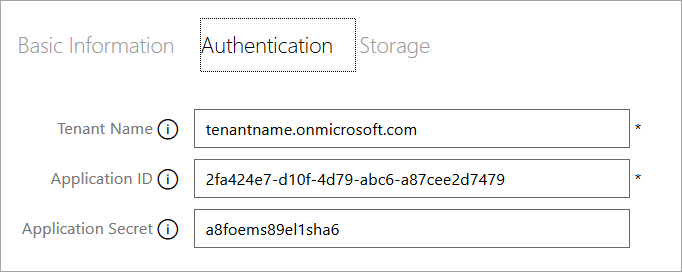
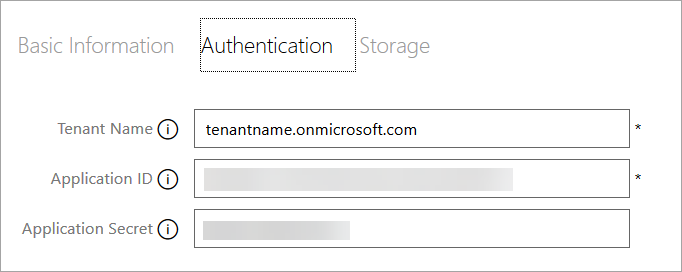
Updated screenshot
-added blur on GUID

Changed region(s): [[0.2771, 0.6176, 0.739, 0.7059], [0.2771, 0.7941, 0.5235, 0.8824]]

diff --git a/cloud-slice/cloud-slice.md b/cloud-slice/cloud-slice.md
@@ -11,12 +11,12 @@ Unmanaged cloud resources are cloud resources that are created during the deploy
 The Cloud Slice feature allows you to create labs in the cloud that are pre-configured with compute, networking, and storage cloud resources, and/or that allow students to create their own compute, networking, and storage cloud resources as part of the steps they must complete within that lab. Before adding Cloud Slice support in your labs, there are several tasks you must perform. These tasks are listed below and any optional ones are appropriately marked with "(Optional)". As you work through these tasks, you can use the list below to navigate to the one you are currently working on and then return to the list to continue with another task.
 
 1. [Enable Cloud Slice support on the cloud platform of your choice](#enable-cloud-slice-support-in-your-cloud-platform).
-1. [Configure resource capacity limitations to allow your labs to scale](#configure-resource-capacity-limitations).
-1. [(Optional) Upload any virtual hard disks that you want to use as a template into the appropriate storage container in your cloud platform](#upload-template-vhds-into-your-cloud-platform).
-1. [Setup your cloud subscription(s) in OneLearn Lab on Demand](#setup-your-cloud-subscriptions-in-onelearn-lab-on-demand).
-1. [(Optional) Create a Cloud Resource Template for each template that you want to use during the deployment of your lab(s)](#create-cloud-resource-templates-in-onelearn-lab-on-demand).
-1. [Add Cloud Slice support to your lab profile(s\)](#add-cloud-slice-support-to-your-lab-profiles).
-1. [(Optional) Add a Cloud Exam to your lab profile(s) if you want the labs scored](#add-a-cloud-exam-to-your-lab-profiles).
+2. [Configure resource capacity limitations to allow your labs to scale](#configure-resource-capacity-limitations).
+3. [(Optional) Upload any virtual hard disks that you want to use as a template into the appropriate storage container in your cloud platform](#upload-template-vhds-into-your-cloud-platform).
+4. [Setup your cloud subscription(s) in OneLearn Lab on Demand](#setup-your-cloud-subscriptions-in-onelearn-lab-on-demand).
+5. [(Optional) Create a Cloud Resource Template for each template that you want to use during the deployment of your lab(s)](#create-cloud-resource-templates-in-onelearn-lab-on-demand).
+6. [Add Cloud Slice support to your lab profile(s\)](#add-cloud-slice-support-to-your-lab-profiles).
+7. [(Optional) Add a Cloud Exam to your lab profile(s) if you want the labs scored](#add-a-cloud-exam-to-your-lab-profiles).
 
 ## Enable Cloud Slice support in your cloud platform
 
@@ -29,8 +29,8 @@ To expose the Cloud Slice capability to your lab(s), you must first grant the On
 Select one of the following cloud platforms to learn how you can grant the required access to that platform. If the platform listed is not a hyperlink, that platform is not yet supported for Cloud Slice labs.
 
 1. [Microsoft Azure](microsoft-azure/cloud-slice-setup.md)
-1. Amazon Web Services (coming soon)
-1. Google Cloud Platform (coming soon)
+2. Amazon Web Services (coming soon)
+3. Google Cloud Platform (coming soon)
 
 [Back to top][back-to-top]
 
@@ -41,8 +41,8 @@ By default, cloud subscriptions come pre-configured with relatively low resource
 Select one of the following cloud platforms to learn how you can request for resource quotas to be increased on that platform. If the platform listed is not a hyperlink, that platform is not yet supported for Cloud Slice labs.
 
 1. [Microsoft Azure](microsoft-azure/azure-capacity-limitations.md)
-1. Amazon Web Services (coming soon)
-1. Google Cloud Platform (coming soon)
+2. Amazon Web Services (coming soon)
+3. Google Cloud Platform (coming soon)
 
 [Back to top][back-to-top]
 
@@ -55,8 +55,8 @@ If you want your students to be able to interact with the cloud virtual machines
 To prepare for the deployment of managed virtual machines in your Cloud Slice lab, you must upload the template virtual hard disk(s) that will be used by your managed virtual machines into your cloud platform. Select the cloud platform you are using with your lab from the list below to learn how to upload template virtual hard disk(s) into that cloud platform. If the platform listed is not a hyperlink, managed virtual machines are not yet supported on that platform.
 
 1. [Microsoft Azure](microsoft-azure/cloud-slice-upload-template-vhds.md)
-1. Amazon Web Services (coming soon)
-1. Google Cloud Platform (coming soon)
+2. Amazon Web Services (coming soon)
+3. Google Cloud Platform (coming soon)
 
 [Back to top][back-to-top]
 
@@ -74,69 +74,69 @@ To add a Cloud Subscription Pool to OneLearn Lab on Demand (LOD), perform the fo
 
 1. Navigate to the <a href="https://labondemand.com" target="_blank">OneLearn Lab on Demand portal</a> and sign in.
 
-1. Open the **Cloud Subscription Pools** section on the Cloud Services tile.
+2. Open the **Cloud Subscription Pools** section on the Cloud Services tile.
 
    ![Open the Cloud Subscription Pools section in OneLearn Lab on Demand](images/lod-open-cloud-subscription-pools.png)
 
-1. Click **Create Cloud Subscription Pool** to create a new cloud subscription pool in LOD.
+3. Click **Create Cloud Subscription Pool** to create a new cloud subscription pool in LOD.
 
    ![Click on Create Cloud Subscription Pool link](images/lod-create-cloud-subscription-pool.png)
 
-1. Assign values to **Name**, **Organization**, and any optional fields you want to use. 
+4. Assign values to **Name**, **Organization**, and any optional fields you want to use. 
 
-   |Field Name|Description|
-   |----|----|
-   |Name&nbsp;(required)|The name of the Cloud Subscription Pool being created.|
-   |Description|The Description should describe the capabilities or the intent of the Subscription Pool.|
-   |Organization&nbsp;(required)|The organization in LOD where the managed Cloud Subscription pool will be used.|
-   |Enabled|This checkbox determines if the Cloud Subscription Pool is enabled or disabled.|
-   |Block&nbsp;lab&nbsp;launches...|This checkbox determines if lab launches should be blocked if no subscriptions are available.|
-   |Custom&nbsp;subscription&nbsp;unavailable&nbsp;message|This message will be presented to users if they try to launch a lab and a subscription is unavailable. If this field is blank, the default message will be used.|
+   | Field Name                               | Description                              |
+   | ---------------------------------------- | ---------------------------------------- |
+   | Name&nbsp;(required)                     | The name of the Cloud Subscription Pool being created. |
+   | Description                              | The Description should describe the capabilities or the intent of the Subscription Pool. |
+   | Organization&nbsp;(required)             | The organization in LOD where the managed Cloud Subscription pool will be used. |
+   | Enabled                                  | This checkbox determines if the Cloud Subscription Pool is enabled or disabled. |
+   | Block&nbsp;lab&nbsp;launches...          | This checkbox determines if lab launches should be blocked if no subscriptions are available. |
+   | Custom&nbsp;subscription&nbsp;unavailable&nbsp;message | This message will be presented to users if they try to launch a lab and a subscription is unavailable. If this field is blank, the default message will be used. |
 
    ![Assign default values to the Cloud Subscription Pool](images/create-cloud-subscription-pool.png)
 
-1. Click **Save** to create the Cloud Subscription Pool.
+5. Click **Save** to create the Cloud Subscription Pool.
 
-1. On the next page, click **Create Cloud Subscription**.
+6. On the next page, click **Create Cloud Subscription**.
 
    ![Click the Add Subscription link on the Cloud Subscriptions tab](images/create-subscription.png)
 
-1. Populate the following required fields in the **Create Cloud Subscription** form:
+7. Populate the following required fields in the **Create Cloud Subscription** form:
 
-   |Tab|Field Name|Description|
-   |----|----|----|
-   |**Basic Information**|**Name**|The name you want to use to identify your managed cloud subscription.|
-   ||**Subscription&nbsp;Id**|The identifier that uniquely identifies the cloud subscription you are managing on the cloud platform where you have enabled Cloud Slice support.|
-   ||**Organization**|The organization in LOD where the managed Cloud Subscription will be used.|
-   ||**Cloud&nbsp;Subscription&nbsp;Pool**|If the Cloud Subscription Pool is not already set, choose the Cloud Subscription Pool that you created earlier in this section.|
-   |**Authentication**|**Tenant&nbsp;Name**|The name of the tenant used for deployment of Cloud Slices in your cloud service.|
-   ||**Application&nbsp;Id**|The identifier that uniquely identifies the client used to manage your cloud service subscription.|
-   ||**Application&nbsp;Secret**|The secret used to authenticate your client id in your cloud service subscription.|
+   | Tab                   | Field Name                            | Description                              |
+   | --------------------- | ------------------------------------- | ---------------------------------------- |
+   | **Basic Information** | **Name**                              | The name you want to use to identify your managed cloud subscription. |
+   |                       | **Subscription&nbsp;Id**              | The identifier that uniquely identifies the cloud subscription you are managing on the cloud platform where you have enabled Cloud Slice support. |
+   |                       | **Organization**                      | The organization in LOD where the managed Cloud Subscription will be used. |
+   |                       | **Cloud&nbsp;Subscription&nbsp;Pool** | If the Cloud Subscription Pool is not already set, choose the Cloud Subscription Pool that you created earlier in this section. |
+   | **Authentication**    | **Tenant&nbsp;Name**                  | The name of the tenant used for deployment of Cloud Slices in your cloud service. |
+   |                       | **Application&nbsp;Id**               | The identifier that uniquely identifies the client used to manage your cloud service subscription. |
+   |                       | **Application&nbsp;Secret**           | The secret used to authenticate your client id in your cloud service subscription. |
 
    You may also provide values for the following optional fields:
 
-   |Tab|Field Name|Description|
-   |----|----|----|
-   |**Basic Information**|**Description**|Text used to describe the managed Cloud Subscription that you are setting up.|
-   ||**Owner&nbsp;Name**|The name of the the Cloud Subscription Owner|
-   ||**Owner&nbsp;E-mail**|The e-mail address of the the Cloud Subscription Owner|
-   ||**Expires&nbsp;After**|The date that the Cloud Subscription will expire.|
-   ||**Enabled**|Indicates whether or not the managed Cloud Subscription is enabled.|
+   | Tab                   | Field Name             | Description                              |
+   | --------------------- | ---------------------- | ---------------------------------------- |
+   | **Basic Information** | **Description**        | Text used to describe the managed Cloud Subscription that you are setting up. |
+   |                       | **Owner&nbsp;Name**    | The name of the the Cloud Subscription Owner |
+   |                       | **Owner&nbsp;E-mail**  | The e-mail address of the the Cloud Subscription Owner |
+   |                       | **Expires&nbsp;After** | The date that the Cloud Subscription will expire. |
+   |                       | **Enabled**            | Indicates whether or not the managed Cloud Subscription is enabled. |
 
    If you are using managed virtual machines in your cloud platform, you may also provide values for the following fields:
 
-   |Tab|Field Name|Description|
-   |----|----|----|
-   |**Storage**|**Template&nbsp;Storage&nbsp;Account**|The name of a storage account inside of the Template Storage Resource Group where the template VHDs may be found. This should either be provided to you or, if you set it up yourself, this is the name of the storage account that you created in the previous task.|
-   ||**Template&nbsp;Storage&nbsp;Resource&nbsp;Group**|The name of a Cloud Resource Group in the managed Cloud Subscription that contains template VHDs that you would like to copy into a lab during its deployment. This should either be provided to you or, if you set it up yourself, this is the name of the resource group that you created in the previous task.|
-   ||**Template&nbsp;Storage**|The name of a container in the Template Storage Account where the template VHDs may be found. This should either be provided to you or, if you set it up yourself, this is the name of the template VHD container that you created in the previous task.|
-   ||**Instance&nbsp;Storage&nbsp;Account**|The name of a storage account inside of the Instance Storage Resource Group where template VHDs will be copied when a Cloud Slice lab configured to use those template VHDs is deployed. This should either be provided to you or, if you set it up yourself, this is the name of the storage account that you created in the previous task. You may use the same storage account as the one used for the Template Storage Account field.|
-   ||**Instance&nbsp;Storage&nbsp;Resource&nbsp;Group**|The name of a Cloud Resource Group in the Cloud Slice where template VHDs will be copied when a Cloud Slice lab configured to use those template VHDs is deployed. This should either be provided to you or, if you set it up yourself, this is the name of the resource group that you created in the previous task. You may use the same resource group as the one used for the Template Storage Resource Group field.|
-   ||**Instance&nbsp;Storage**|The name of a container in the Instance Storage Account where template VHDs will be copied when a Cloud Slice lab configured to use those template VHDs is deployed. This should either be provided to you or, if you set it up yourself, this is the name of the template VHD container that you created in the previous task.|
+   | Tab         | Field Name                               | Description                              |
+   | ----------- | ---------------------------------------- | ---------------------------------------- |
+   | **Storage** | **Template&nbsp;Storage&nbsp;Account**   | The name of a storage account inside of the Template Storage Resource Group where the template VHDs may be found. This should either be provided to you or, if you set it up yourself, this is the name of the storage account that you created in the previous task. |
+   |             | **Template&nbsp;Storage&nbsp;Resource&nbsp;Group** | The name of a Cloud Resource Group in the managed Cloud Subscription that contains template VHDs that you would like to copy into a lab during its deployment. This should either be provided to you or, if you set it up yourself, this is the name of the resource group that you created in the previous task. |
+   |             | **Template&nbsp;Storage**                | The name of a container in the Template Storage Account where the template VHDs may be found. This should either be provided to you or, if you set it up yourself, this is the name of the template VHD container that you created in the previous task. |
+   |             | **Instance&nbsp;Storage&nbsp;Account**   | The name of a storage account inside of the Instance Storage Resource Group where template VHDs will be copied when a Cloud Slice lab configured to use those template VHDs is deployed. This should either be provided to you or, if you set it up yourself, this is the name of the storage account that you created in the previous task. You may use the same storage account as the one used for the Template Storage Account field. |
+   |             | **Instance&nbsp;Storage&nbsp;Resource&nbsp;Group** | The name of a Cloud Resource Group in the Cloud Slice where template VHDs will be copied when a Cloud Slice lab configured to use those template VHDs is deployed. This should either be provided to you or, if you set it up yourself, this is the name of the resource group that you created in the previous task. You may use the same resource group as the one used for the Template Storage Resource Group field. |
+   |             | **Instance&nbsp;Storage**                | The name of a container in the Instance Storage Account where template VHDs will be copied when a Cloud Slice lab configured to use those template VHDs is deployed. This should either be provided to you or, if you set it up yourself, this is the name of the template VHD container that you created in the previous task. |
 
-1. Click **OK** to create the Cloud Subscription. The Cloud Subscription will be saved and associated with the Cloud Subscription Pool that was created during previous steps.
+8. Click **OK** to create the Cloud Subscription. The Cloud Subscription will be saved and associated with the Cloud Subscription Pool that was created during previous steps.
 
-1. If desired, repeat the three previous steps for each managed Cloud Subscription that you want to add to the pool.
+9. If desired, repeat the three previous steps for each managed Cloud Subscription that you want to add to the pool.
 
 #### Below are some screenshots showing what the Cloud Subscription might look like when you have finished.
 
@@ -159,8 +159,8 @@ A Cloud Resource Template contains a template document that defines the resource
 Before you get started creating Cloud Resource Templates, you need at least one cloud platform template that you want to use in a Cloud Slice lab. If you haven't already identified templates that you want to use in your lab, select the cloud platform you are using with your lab from the list below to learn how to find templates for that cloud platform. If the platform listed is not a hyperlink, Cloud Resource Templates are not yet supported on that platform.
 
 1. [Microsoft Azure](microsoft-azure/cloud-slice-find-resource-templates.md)
-1. Amazon Web Services (coming soon)
-1. Google Cloud Platform (coming soon)
+2. Amazon Web Services (coming soon)
+3. Google Cloud Platform (coming soon)
 
 Once you have identified one or more cloud platform template documents you want to use, you can create a Cloud Resource Template in LOD by logging on to the Lab on Demand portal and completing the following steps:
 
@@ -168,11 +168,11 @@ Once you have identified one or more cloud platform template documents you want 
 
    ![Click on Cloud Resource Templates](images/lod-open-cloud-resource-templates.png)
 
-1. In the Cloud Resource Templates view, click **Create Resource Template** to create a new Cloud Resource Template.
+2. In the Cloud Resource Templates view, click **Create Resource Template** to create a new Cloud Resource Template.
 
    ![Click Create Resource Template to create a new Cloud Resource Template](images/lod-create-cloud-resource-template.png)
 
-1. In the Create Resource Template view, populate the following required fields in the **Create Resource Template** form:
+3. In the Create Resource Template view, populate the following required fields in the **Create Resource Template** form:
 
    | Tab                   | Field Name                               | Description                              |
    | --------------------- | ---------------------------------------- | ---------------------------------------- |
@@ -193,7 +193,7 @@ Once you have identified one or more cloud platform template documents you want 
 
    ![Create Cloud Resource Template - Basic Information Tab](images/lod-cloud-resource-template-basic-information.png)
 
-1. If your Cloud Resource Template has parameters whose values you want displayed to students, or whose values must be set when the Cloud Resource Template is added to a lab profile, click the **Parameters** tab. From this tab you can either add individual template parameters by clicking the **Add Template Parameter** button, or you can add a set of template parameters by clicking the **Import From Json** button to import a JSON document that defines the parameters. In either case, you will end up with one or more parameters defined for your Cloud Resource Template. Each parameter has the following properties:
+4. If your Cloud Resource Template has parameters whose values you want displayed to students, or whose values must be set when the Cloud Resource Template is added to a lab profile, click the **Parameters** tab. From this tab you can either add individual template parameters by clicking the **Add Template Parameter** button, or you can add a set of template parameters by clicking the **Import From Json** button to import a JSON document that defines the parameters. In either case, you will end up with one or more parameters defined for your Cloud Resource Template. Each parameter has the following properties:
 
    | **Property Name**      | **Description**                          |
    | ---------------------- | ---------------------------------------- |
@@ -209,7 +209,7 @@ Once you have identified one or more cloud platform template documents you want 
 
    If you want to remove a parameter that you mistakenly added, you can click the **Delete** button to the right of the parameter you want to remove.
 
-1. Once you have configured your Cloud Resource Template, click **Save** to save it in LOD.
+5. Once you have configured your Cloud Resource Template, click **Save** to save it in LOD.
 
 [Back to top][back-to-top]
 
@@ -238,9 +238,9 @@ The **Virtualization Platform** setting defines the platform used to launch mana
 If you have virtual machines that you are launching in your cloud platform when this lab is provisioned, open the **Virtual Machines tab** and click **Create Virtual Machine** to create a virtual machine profile for the template virtual hard disk in your cloud platform. This will open the Create Virtual Machine Profile view. When creating a virtual machine profile for a virtual machine provisioned in a cloud platform, there are only a few differences from the standard virtual machine profile creation process:
 
 1. On the **Basic Information** tab, ensure that the **Platform** field is set to the cloud platform where the virtual machine will be provisioned.
-1. In the **Machine Type** field on the same tab, select the size of the VM that you want provisioned when the VM is created. When choosing a VM size, pay close attention to the cost and the number of cores required for that VM. You must ensure that you have enough resources available in your subscription for all students taking your lab to provision VMs of the size you choose.
-1. On the **Hard Disks** tab, click **Add Hard Disk** and type in the name of the template virtual hard disk file that you uploaded into your cloud subscription that you want to use as a template when provisioning this virtual hard disk.
-1. On the **Network Adapters** tab, if you want a network adapter provisioned for the virtual machine, click **Add Network Adapter**, give that network adapter a name in the **Name** field, and configure the other options you want for your network adapter.
+2. In the **Machine Type** field on the same tab, select the size of the VM that you want provisioned when the VM is created. When choosing a VM size, pay close attention to the cost and the number of cores required for that VM. You must ensure that you have enough resources available in your subscription for all students taking your lab to provision VMs of the size you choose.
+3. On the **Hard Disks** tab, click **Add Hard Disk** and type in the name of the template virtual hard disk file that you uploaded into your cloud subscription that you want to use as a template when provisioning this virtual hard disk.
+4. On the **Network Adapters** tab, if you want a network adapter provisioned for the virtual machine, click **Add Network Adapter**, give that network adapter a name in the **Name** field, and configure the other options you want for your network adapter.
 
 Those settings aside, the remaining settings for the virtual machine profile should be familiar to you if you have already created virtual machine profiles in LOD. Once you have finished creating the virtual machine, click **Save** to save it and then return to the **Create Lab Profile** view.
 
@@ -288,9 +288,9 @@ If you want to add an exam to a Cloud Slice lab, the process is the same as addi
 Once you have indicated you want an automated exam in your lab, you can add scoring items that can be used to score a Cloud Slice by doing the following:
 
 1. Click **Add Scoring Item** in the **Scoring Items** section.
-1. Optionally assign a different value to the **Score Value** field if you want that scoring item to be worth more than 1 point.
-1. In the **Type** field, select **Cloud Subscription Scoring** from the list of options.
-1. In the **Scoring Script** field, enter the PowerShell script you want to use to determine whether the student completed the work required to receive the value for that scoring item. This script will be run automatically against each student's Cloud Slice subscription. To include values relative to the specific Cloud Slice lab being scored, create a `param` block at the top of the script and include the parameters you want to reference from within your script. The parameters you can choose from are listed below.
+2. Optionally assign a different value to the **Score Value** field if you want that scoring item to be worth more than 1 point.
+3. In the **Type** field, select **Cloud Subscription Scoring** from the list of options.
+4. In the **Scoring Script** field, enter the PowerShell script you want to use to determine whether the student completed the work required to receive the value for that scoring item. This script will be run automatically against each student's Cloud Slice subscription. To include values relative to the specific Cloud Slice lab being scored, create a `param` block at the top of the script and include the parameters you want to reference from within your script. The parameters you can choose from are listed below.
 
 ### Parameters optionally sent to Cloud Slice PBT scoring scripts
 
